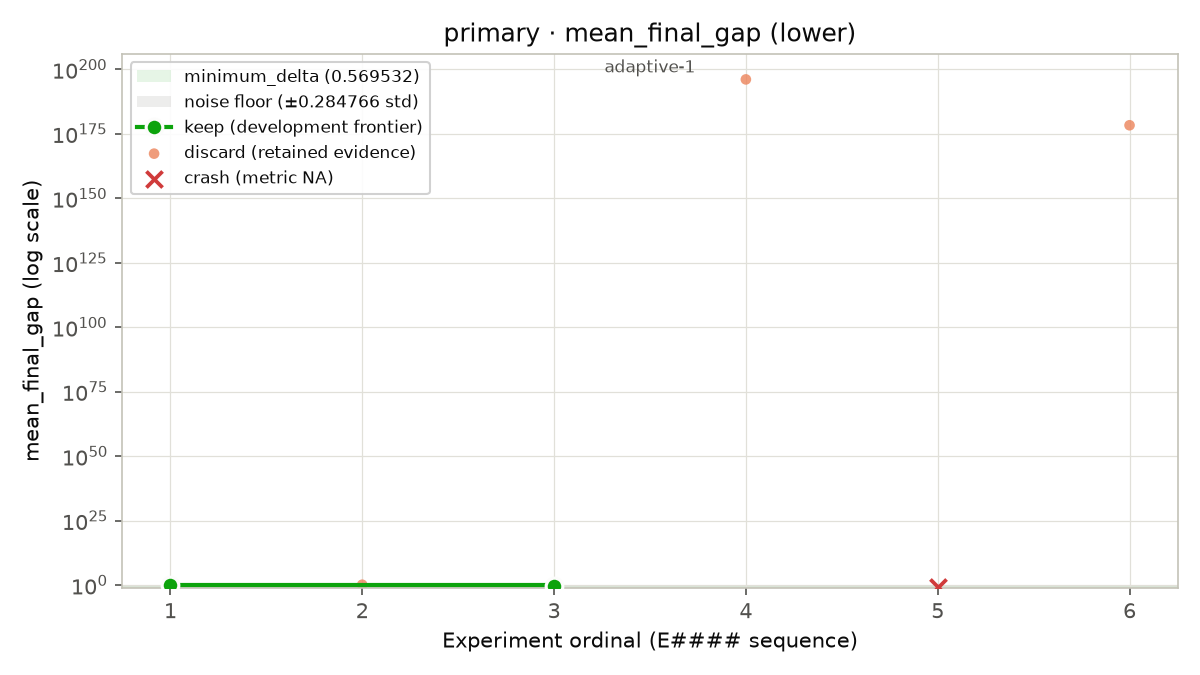
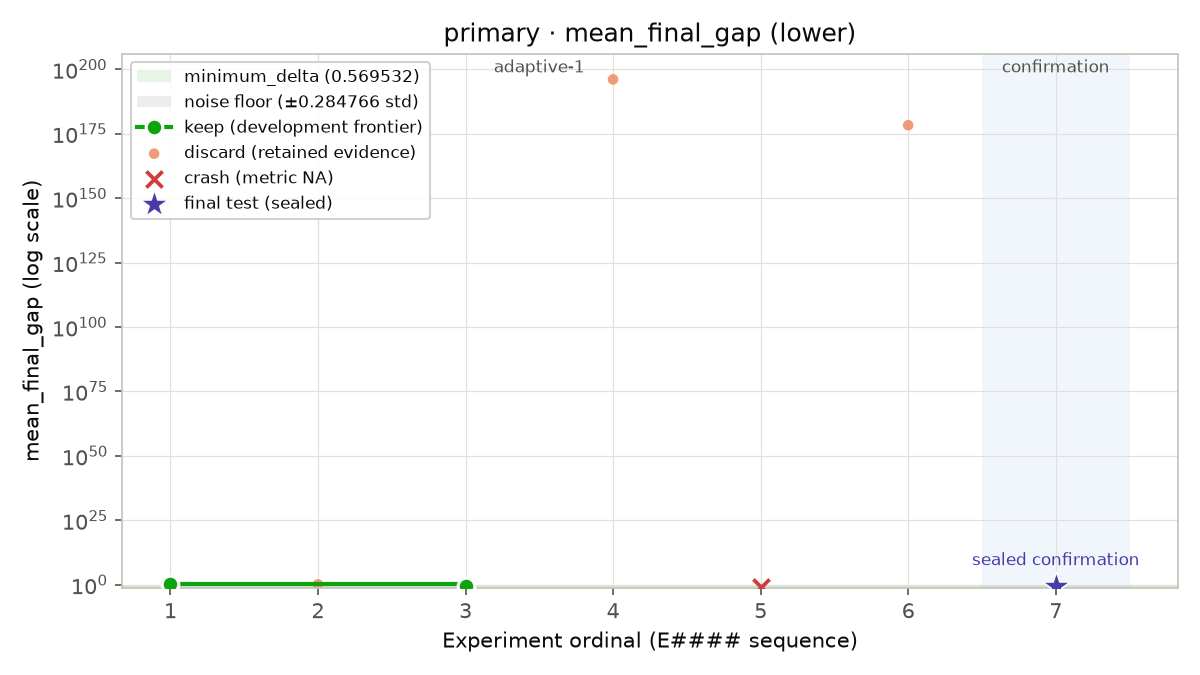
study 03: findings — confirmed restarts claim, four surprises, claim IDs C1-C7

diff --git a/studies/03-noisy-rosenbrock-dfo/findings.md b/studies/03-noisy-rosenbrock-dfo/findings.md
@@ -1,0 +1,104 @@
+---
+type: findings
+domain: "optimization"
+status: final
+concepts: [derivative-free-optimization, spsa, nelder-mead, random-restarts, noise-floor]
+related: [02-rqls-pv-severity]
+---
+
+# Findings — 03-noisy-rosenbrock-dfo
+
+> Every claim cites experiment IDs from the immutable run manifests. Claim IDs
+> are stable (`03-noisy-rosenbrock-dfo#C<n>`, never renumbered). Deltas are
+> stated as multiples of the measured noise-floor std (0.2848, k=5 disjoint
+> seed blocks); deltas under 2× floor are reported as within-noise. This study
+> is **confirmed**: its track's one sealed fresh-seed evaluation was spent and
+> replicated the incumbent.
+
+## ① Research-question verdicts
+
+| Claim | RQ | Track | Verdict | Evidence level | Evidence (exp IDs) | Metric delta + uncertainty |
+|---|---|---|---|---|---|---|
+| **[C1]** | RQ1 (restarts beat single-start NM) | primary | **supported** | **confirmed** | E0001, E0003, E0007 | 1.2512 → 0.4071 on the dev block (Δ 0.844 = 2.96× floor std, clears the 0.5695 contract bar); sealed fresh block 0.3121 replicates (|0.407−0.312| = 0.33× std) |
+| **[C2]** | RQ2 (SPSA beats restarted NM at this budget) | primary | **refuted** — and more strongly than predicted | exploratory | E0004, E0006 | "textbook" a₀=0.1 does not merely lose: it diverges to 1.9e178. The prior said within-noise; reality was unbounded |
+| **[C3]** | RQ3 (8×25 fragmentation) | primary | **inconclusive — untested** | — | (deferred at the mid-phase re-plan, program.md 2026-07-30) | next-study queue |
+
+## ② Predictions to falsify (filled)
+
+| Lever | Predicted delta | Observed delta | Verdict | Evidence |
+|---|---|---|---|---|
+| restarts 1→4, fixed 200-eval budget | improve ≥ 3× floor std | 2.96× floor std (0.844) | **held** (to rounding) | E0003 |
+| NM adaptive=True at n=2 | within 2× floor std | **exactly 0** — Gao-Han coefficients ≡ standard NM at n=2, bit-identical run | held (trivially — a no-op by mathematics) | E0002 |
+| SPSA a₀=50 | non-finite → CRASH | 1.1e196, **finite** → discard | **falsified on mechanism** — decaying gains self-limit divergence below overflow (off-ledger probes: a₀=500→1e81, a₀=5000→1e97) | E0004 |
+| SPSA c₀=0 (re-registered mid-phase) | ZeroDivisionError → CRASH | ZeroDivisionError → crash, NA metric | held | E0005 |
+
+## ③ Surprises and why
+
+1. **Random search beats single-start NM 3.2× — found by the DATA gate, before
+   any experiment ran.** The clean-room audit's chance check scored 200 uniform
+   samples at 0.397 vs the anchor's 1.2512. Mechanism: σ=0.5 noise corrupts
+   NM's simplex ordering, so it stalls wherever the noise first confuses it;
+   200 scattered darts sample the valley floor by volume. (Noiseless probe:
+   NM = exact 0.0 on all 40 starts — the landscape is trivial without noise;
+   the noise is the entire problem.)
+2. **"Adaptive" Nelder-Mead is a dimensional illusion at n=2** (E0002): the
+   Gao–Han coefficients χ=1+2/n, ψ=3/4−1/(2n), σ=1−1/n equal the classic
+   2, 1/2, 1/2 exactly when n=2. The probe was structurally a rerun — delta
+   exactly 0. Know your method's dimension dependence before spending a run.
+3. **SPSA divergence saturates finite** (E0004): iterates explode until the
+   decaying gain a_k strangles the step size; the trajectory freezes at
+   absurd-but-representable values (1e81–1e196), never reaching float
+   overflow. Divergence is not a crash — it is a very confident wrong answer.
+4. **My "tuned" SPSA was mis-tuned by the method card's own reference**
+   (E0006): Spall 1998 sizes a₀ from the desired first-step magnitude; with
+   gradient magnitudes ~10³–10⁴ here, that rule gives a₀ ≈ 2×10⁻⁵ — not the
+   0.1 I registered. The card contained the cure; I didn't apply it.
+
+## ④ Practical advice
+
+1. **[C4]** Measure your noise floor before judging any delta: the anchor's dev
+   block was the LUCKIEST of five blocks (1.25 vs cross-block mean 1.72);
+   single-block deltas under 0.57 here are weather, not climate (evidence:
+   sweeps/noise_floor.sidecar.tsv, E0001).
+2. **[C5]** Under evaluation noise, buy exploration before polish: restarts'
+   entire value at this budget is their random-sampling component — they tie
+   random search (0.407 vs 0.397, 0.04× floor std apart) (evidence: E0003,
+   data card issue 1).
+3. **[C6]** Treat gain-sequence scales as landscape quantities, never as
+   defaults: apply Spall 1998's first-step rule to YOUR gradient magnitudes
+   before the first SPSA run (evidence: E0004, E0006).
+4. **[C7]** Register crash predictions on mechanisms, not vibes: "it will
+   diverge" (true, E0004) is not "it will be non-finite" (false, E0004; true
+   only for the c₀=0 denominator, E0005) (evidence: E0004, E0005).
+
+## ⑤ Business / research value implications
+
+For any tuning task whose evaluations are noisy (simulation calibration,
+hyperparameter search over CV folds, A/B-measured policies): the floor-first
+discipline in [C4] is the difference between shipping a real improvement and
+shipping block-weather; and [C5] says a cheap random-search baseline is
+mandatory before crediting any clever local optimizer — here it would have
+saved 4 of 7 ledger rows.
+
+## ⑥ Literature tie-back
+
+- Spall (1992): SPSA's mean-zero gradient error is asymptotic doctrine — at 100
+  iterations on a steep landscape, the pre-asymptotic regime dominated,
+  exactly as the method card's regime table predicted (prior held, E0006).
+- Spall (1998): the a₀ selection rule was the study's own unused cure ([C6]) —
+  the literature predicted our failure and we reproduced it by skipping one
+  paragraph.
+- Priors' scorecard: method-card-sourced priors went 2/2 (RQ1's direction,
+  SPSA's regime); `uninformed` priors went 1/2 (RQ2 direction right, magnitude
+  qualitatively wrong; RQ3 untested). Knowledge-sourced priors outpredicted
+  uninformed ones — the promotion loop earned its keep.
+
+## ⑦ What to try next
+
+1. Random search as a ledger experiment with its own noise floor (the DATA-gate
+   finding deserves frontier status; deferred at the slate, program.md).
+2. SPSA at a₀≈2×10⁻⁵ (the Spall-rule value) and/or gradient-normalized SPSA —
+   does the method compete once actually tuned by its own reference?
+3. 8×25 vs 4×50 restart fragmentation (RQ3, untested).
+4. CRN pairing (common random numbers across configs) to shrink the paired
+   noise floor and sharpen minimum_delta below 0.57.

diff --git a/studies/03-noisy-rosenbrock-dfo/results_summary.md b/studies/03-noisy-rosenbrock-dfo/results_summary.md
@@ -6,9 +6,9 @@
 - track: `primary`
 - minimum delta: 0.569532 (= 2.0x measured seed std 0.284766, k=5)
 - goal: `lower`
-- total experiments: 6
+- total experiments: 7
 - keep: 2
-- discard: 3
+- discard: 4
 - crash: 1
 
 ## Overview
@@ -36,11 +36,22 @@
 | E0004 | `569bf832e7a3ed6a57efb9f5f9480541f2df3e9c` | 11155760522900000835037867593246821038466806263430450505544431676982102285133816303625773157367718946962685096575694782418666807315183416408169426909871509134135538322484211140999407634715613593600.000000 | discard | SPSA a0=50 aggressive gains — registered prediction: iterates diverge, objective overflows non-finite, honest crash; did not improve track frontier 0.407072 by minimum_delta=0.569532 |
 | E0005 | `a9197c54167d90bb701056616ac16fad044ddde9` | n/a | crash | SPSA c0=0 — the estimator's own denominator: registered crash, mechanism corrected after E0004; process exit code 1 |
 | E0006 | `8395ce73bae895434031ad97bf59cddc3ddbd754` | 18507098284400000505127373551076521068197799267852249336004572973231362251300864947343537581426479805203950546322114610295760044928520793566253074551862531878622517108014575517696.000000 | discard | SPSA tuned a0=0.1 c0=0.1 — RQ2: prediction says within 2x floor std of restarted NM (discard); did not improve track frontier 0.407072 by minimum_delta=0.569532 |
+| E0007 | `7a68c8488786e80a124c8e4795b0e0cf85fe44a0` | 0.312078 | discard | sealed confirmation: incumbent 4x50 restarts on the fresh seed block 10042..; sealed final-test evidence; excluded from the adaptive frontier |
+
+## Decision trajectory
+
+Per-track decision history — the development keep-frontier (step line),
+discards, crashes on the bottom rug, and the sealed final-test confirmation
+star, with phase bands. Regenerate with
+`uv run --locked python .claude/skills/klein/scripts/make_figures.py <study_dir>`.
+
+![Decision trajectory](figures/plot_decision_trajectory__primary.png)
+
 
 ## Phase Telemetry
 
 | Phase | Experiments (used/max) | Seconds (used/budget) | Status |
 | --- | --- | --- | --- |
 | adaptive-1 | 6/6 | 4.1/1500 | within budget |
-| confirmation | 0/1 | 0.0/300 | untouched |
+| confirmation | 1/1 | 0.7/300 | within budget |
 
